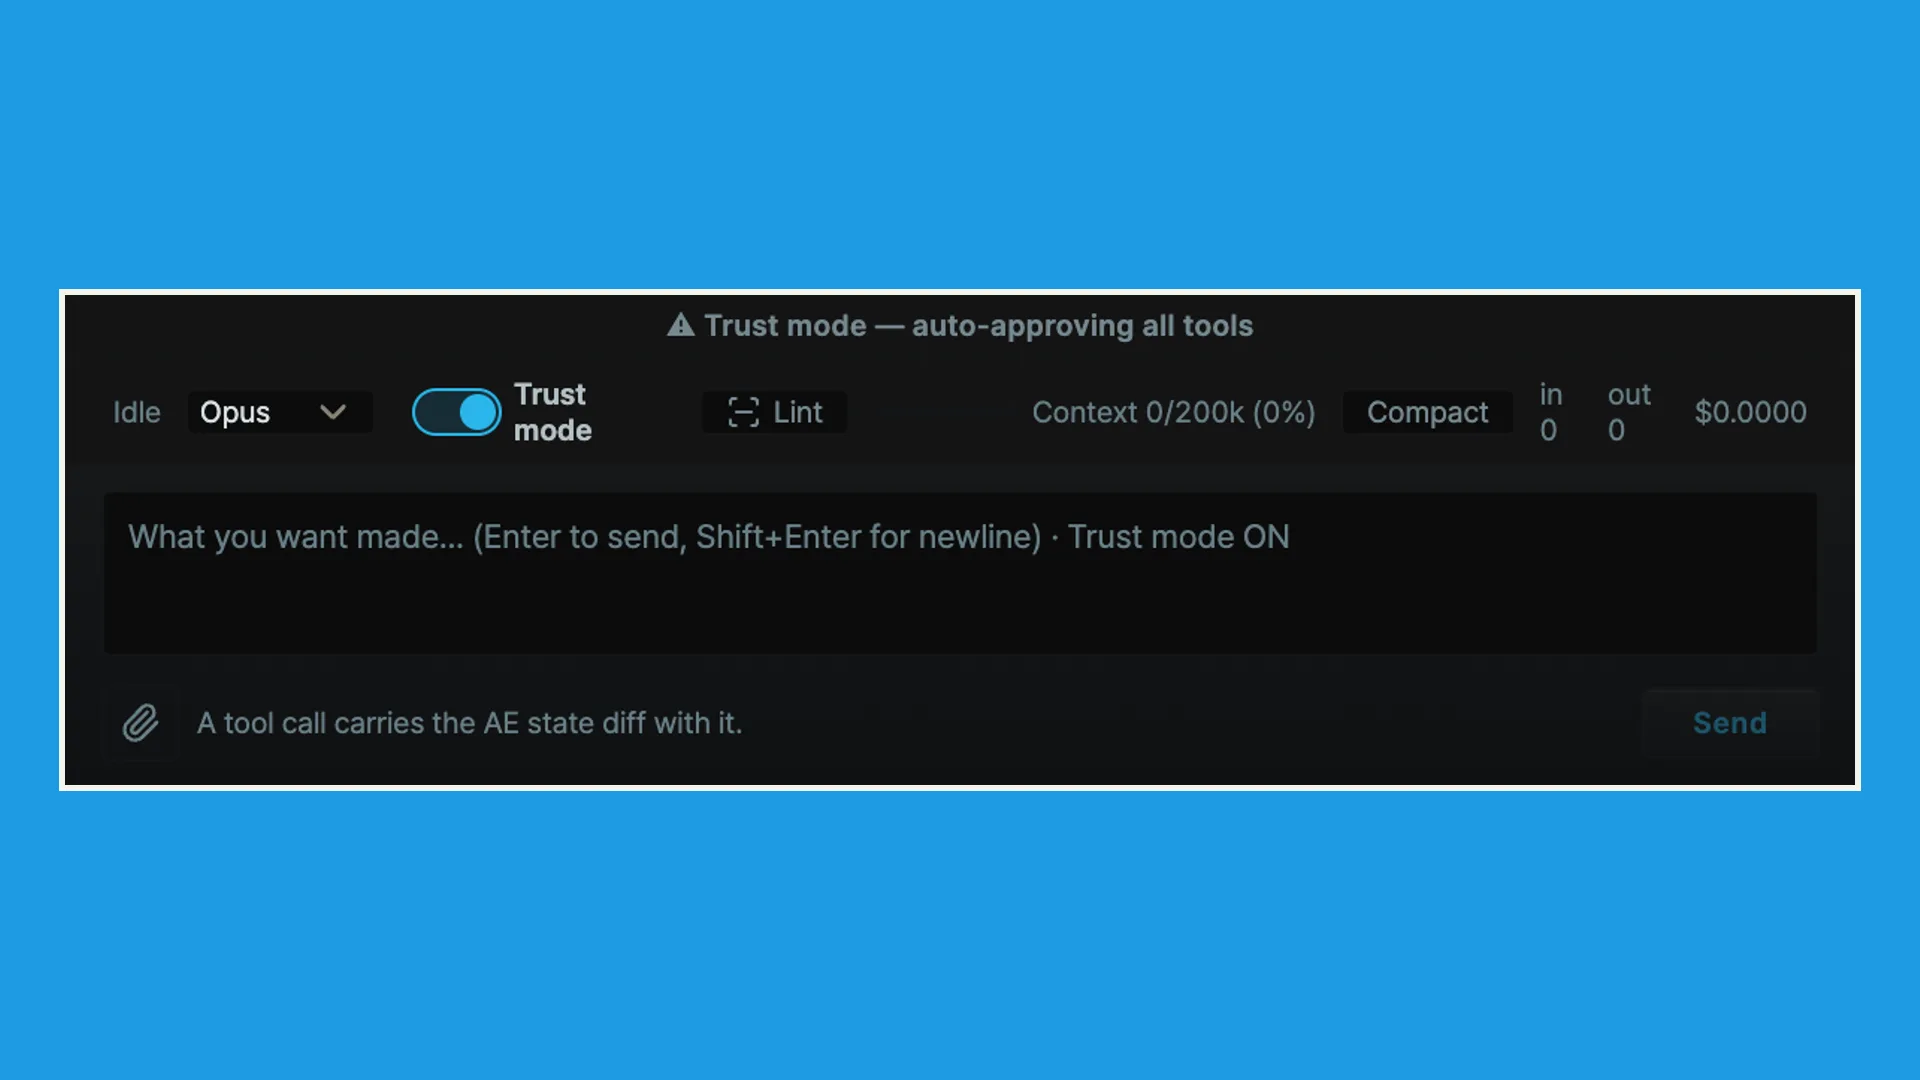
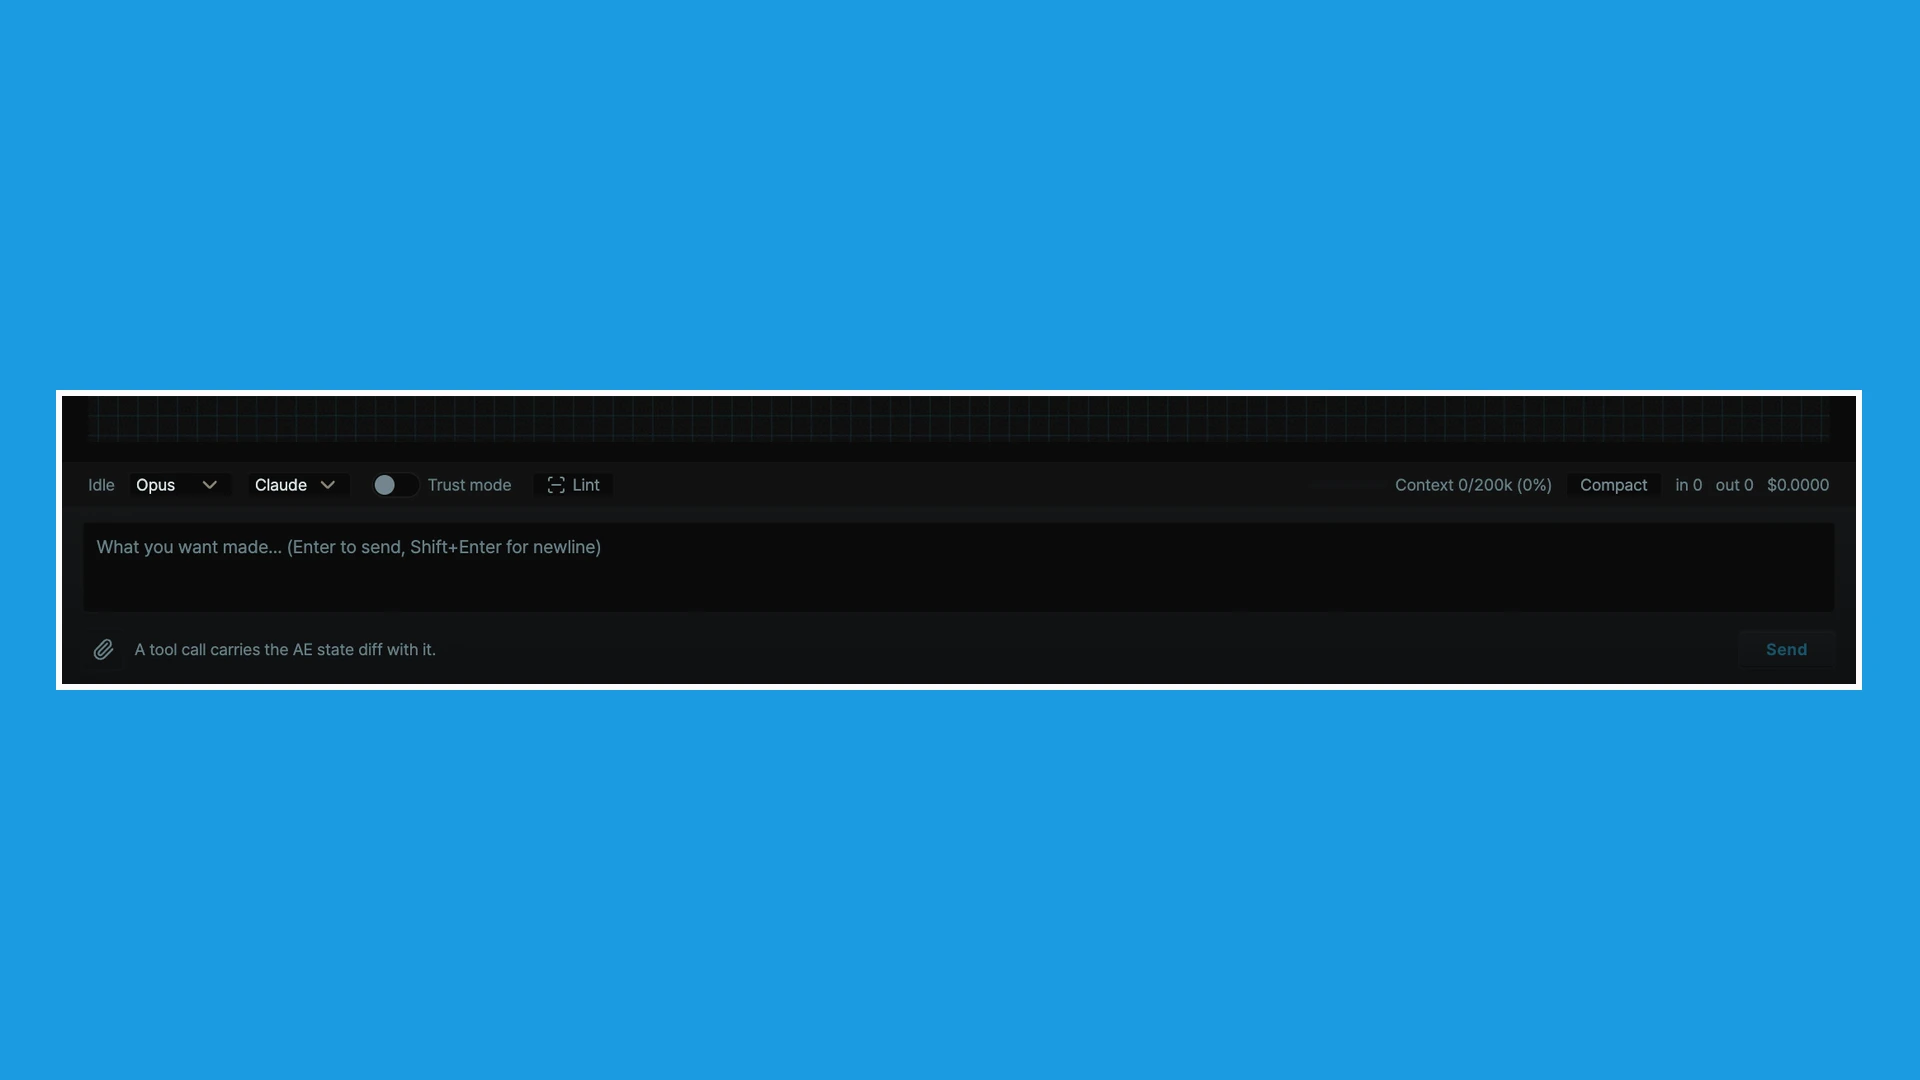
fix(site): Chat·Library 패널 컷 재촬영 — 출고 태그 · 신뢰 모드 OFF · Motion 탭, 임시 캡션 걷음
v2.7.1 태그 빌드에서 ko/en 4장(tools/promo/panelSpot.mjs). Chat = 기본값(신뢰 모드 OFF) · 새 탭 ·
Library = Motion 탭(이 절이 등장·퇴장 모션이다). 그림과 어긋남을 막으려 붙였던 캡션 두 개를
그림에 맞는 문장으로 되돌렸다.

diff --git a/lib/copy/ae.ts b/lib/copy/ae.ts
@@ -91,9 +91,8 @@ const AE: Dict = {
     'ae.what.tag': 'Seven panels.<br>Only what gets used every day.',
 
     'ae.f1.alt': 'Chat panel — model picker, trust mode, lint',
-    /* 🔴 이 컷은 신뢰 모드 ON 이다(촬영 상태). 기본값은 OFF(`chatStore.ts` loadTrust — v2.7.1 태그 동일).
-       재촬영 전까지 캡션이 그 차이를 말한다 — 옆 문장("바꾸는 동작은 먼저 묻는다")과 증거가 어긋나지 않게. */
-    'ae.f1.cap': 'The actual Chat panel — trust mode is switched on in this shot; it is off by default, and every change asks first.',
+    /* 컷 = v2.7.1 태그 · 신뢰 모드 OFF(기본값) · 새 탭(in 0 out 0) — 2026-09-28 재촬영(`tools/promo/panelSpot.mjs`). */
+    'ae.f1.cap': 'The actual Chat panel, as it ships — trust mode is off by default, so every change asks first.',
     'ae.f1.h': 'Say it, <span class="u">it lands on layers</span>',
     'ae.f1.p1': 'Describe it in plain language and it gets built inside AE. It is not making you a video — it <b>writes layers and keyframes into your comp.</b>',
     'ae.f1.p2': 'It runs on <b>Claude Code</b> or <b>Codex</b>, installed on your computer and signed in with <b>your own plan</b> — the panel walks you through both. We do not sell tokens.',
@@ -123,9 +122,9 @@ const AE: Dict = {
     'ae.docs.txt': 'The other <b>{rest}</b> are all in the Docs with their plates — what each tool does and what it runs on. <b>Read it before you buy.</b>',
     'ae.docs.btn': 'See all {scripts} tools',
 
-    /* 🔴 판은 **Text Preset 탭**이다(`panel-library.{en,ko}.webp` 육안). Motion 탭 컷이 생기면 캡션을 되돌려라. */
-    'ae.f3.alt': 'Library panel — Text Preset tab',
-    'ae.f3.cap': 'The real Library panel — <b>{textPresets} text presets</b>, split by characters, words and lines.',
+    /* 컷 = **Motion 탭**(v2.7.1 태그 · 위치 4 · 회전 4 · 스케일 4 · 믹스 14 = {motion}) — 2026-09-28 재촬영. 이 절(등장·퇴장)의 판이다. */
+    'ae.f3.alt': 'Library panel — Motion tab',
+    'ae.f3.cap': 'The real Library panel — <b>{motion} motion presets</b>, grouped by position, rotation, scale and mix.',
     'ae.f3.h': 'In and out, <span class="u">separately</span>',
     'ae.f3.p1': 'One property takes an entrance and an exit as two separate moves. You drag both start points as <b>timeline markers</b> — no hunting the keyframes down again.',
     'ae.f3.p2': 'After it is applied you keep tuning it on the Effect Controls sliders. Apply it again and it <b>will not overwrite the values you set.</b>',
@@ -333,7 +332,7 @@ const AE: Dict = {
     'ae.what.tag': '패널 7개.<br>매일 쓰는 것만 남겼습니다.',
 
     'ae.f1.alt': 'Chat 패널 — 모델 선택 · 신뢰 모드 · 검사',
-    'ae.f1.cap': '실제 Chat 패널입니다 — 이 화면은 신뢰 모드를 켠 상태입니다. 기본은 꺼져 있고, 그때는 바꾸는 동작마다 먼저 묻습니다.',
+    'ae.f1.cap': '출고본 그대로의 Chat 패널입니다 — 신뢰 모드는 기본으로 꺼져 있어, 바꾸는 동작마다 먼저 묻습니다.',
     'ae.f1.h': '말하면 <span class="u">레이어에 앉는다</span>',
     'ae.f1.p1': '자연어로 설명하면 AE 안에서 그게 만들어집니다. 영상을 생성하는 게 아니라 <b>당신 컴프에 레이어와 키프레임을 씁니다.</b>',
     'ae.f1.p2': '<b>Claude Code</b> 나 <b>Codex</b> 로 돕니다 — 당신 컴퓨터에 설치하고 <b>당신의 구독</b>으로 로그인한 것으로요. 설치와 로그인 모두 패널이 안내합니다. 우리는 토큰을 팔지 않습니다.',
@@ -362,8 +361,8 @@ const AE: Dict = {
     'ae.docs.txt': '나머지 <b>{rest}개</b>는 Docs 에 판과 함께 전부 있습니다 — 무엇을 하는 툴인지, 어떤 레이어에 되는지. <b>사기 전에 읽으셔도 됩니다.</b>',
     'ae.docs.btn': '툴 {scripts}종 전부 보기',
 
-    'ae.f3.alt': 'Library 패널 — Text Preset 탭',
-    'ae.f3.cap': '실제 Library 패널 — <b>텍스트 프리셋 {textPresets}가지</b>, 글자·단어·줄 단위로 나뉩니다.',
+    'ae.f3.alt': 'Library 패널 — Motion 탭',
+    'ae.f3.cap': '실제 Library 패널 — <b>모션 프리셋 {motion}가지</b>, 위치·회전·스케일·믹스로 나뉩니다.',
     'ae.f3.h': '등장과 퇴장을 <span class="u">따로</span>',
     'ae.f3.p1': '한 속성에 들어오는 동작과 나가는 동작을 각각 겁니다. 두 시작점은 <b>타임라인 마커</b>로 끕니다 — 키프레임을 다시 찾아 옮길 일이 없습니다.',
     'ae.f3.p2': '적용한 뒤에도 Effect Controls 슬라이더로 계속 만집니다. 다시 적용해도 <b>당신이 맞춘 값을 안 덮습니다.</b>',
